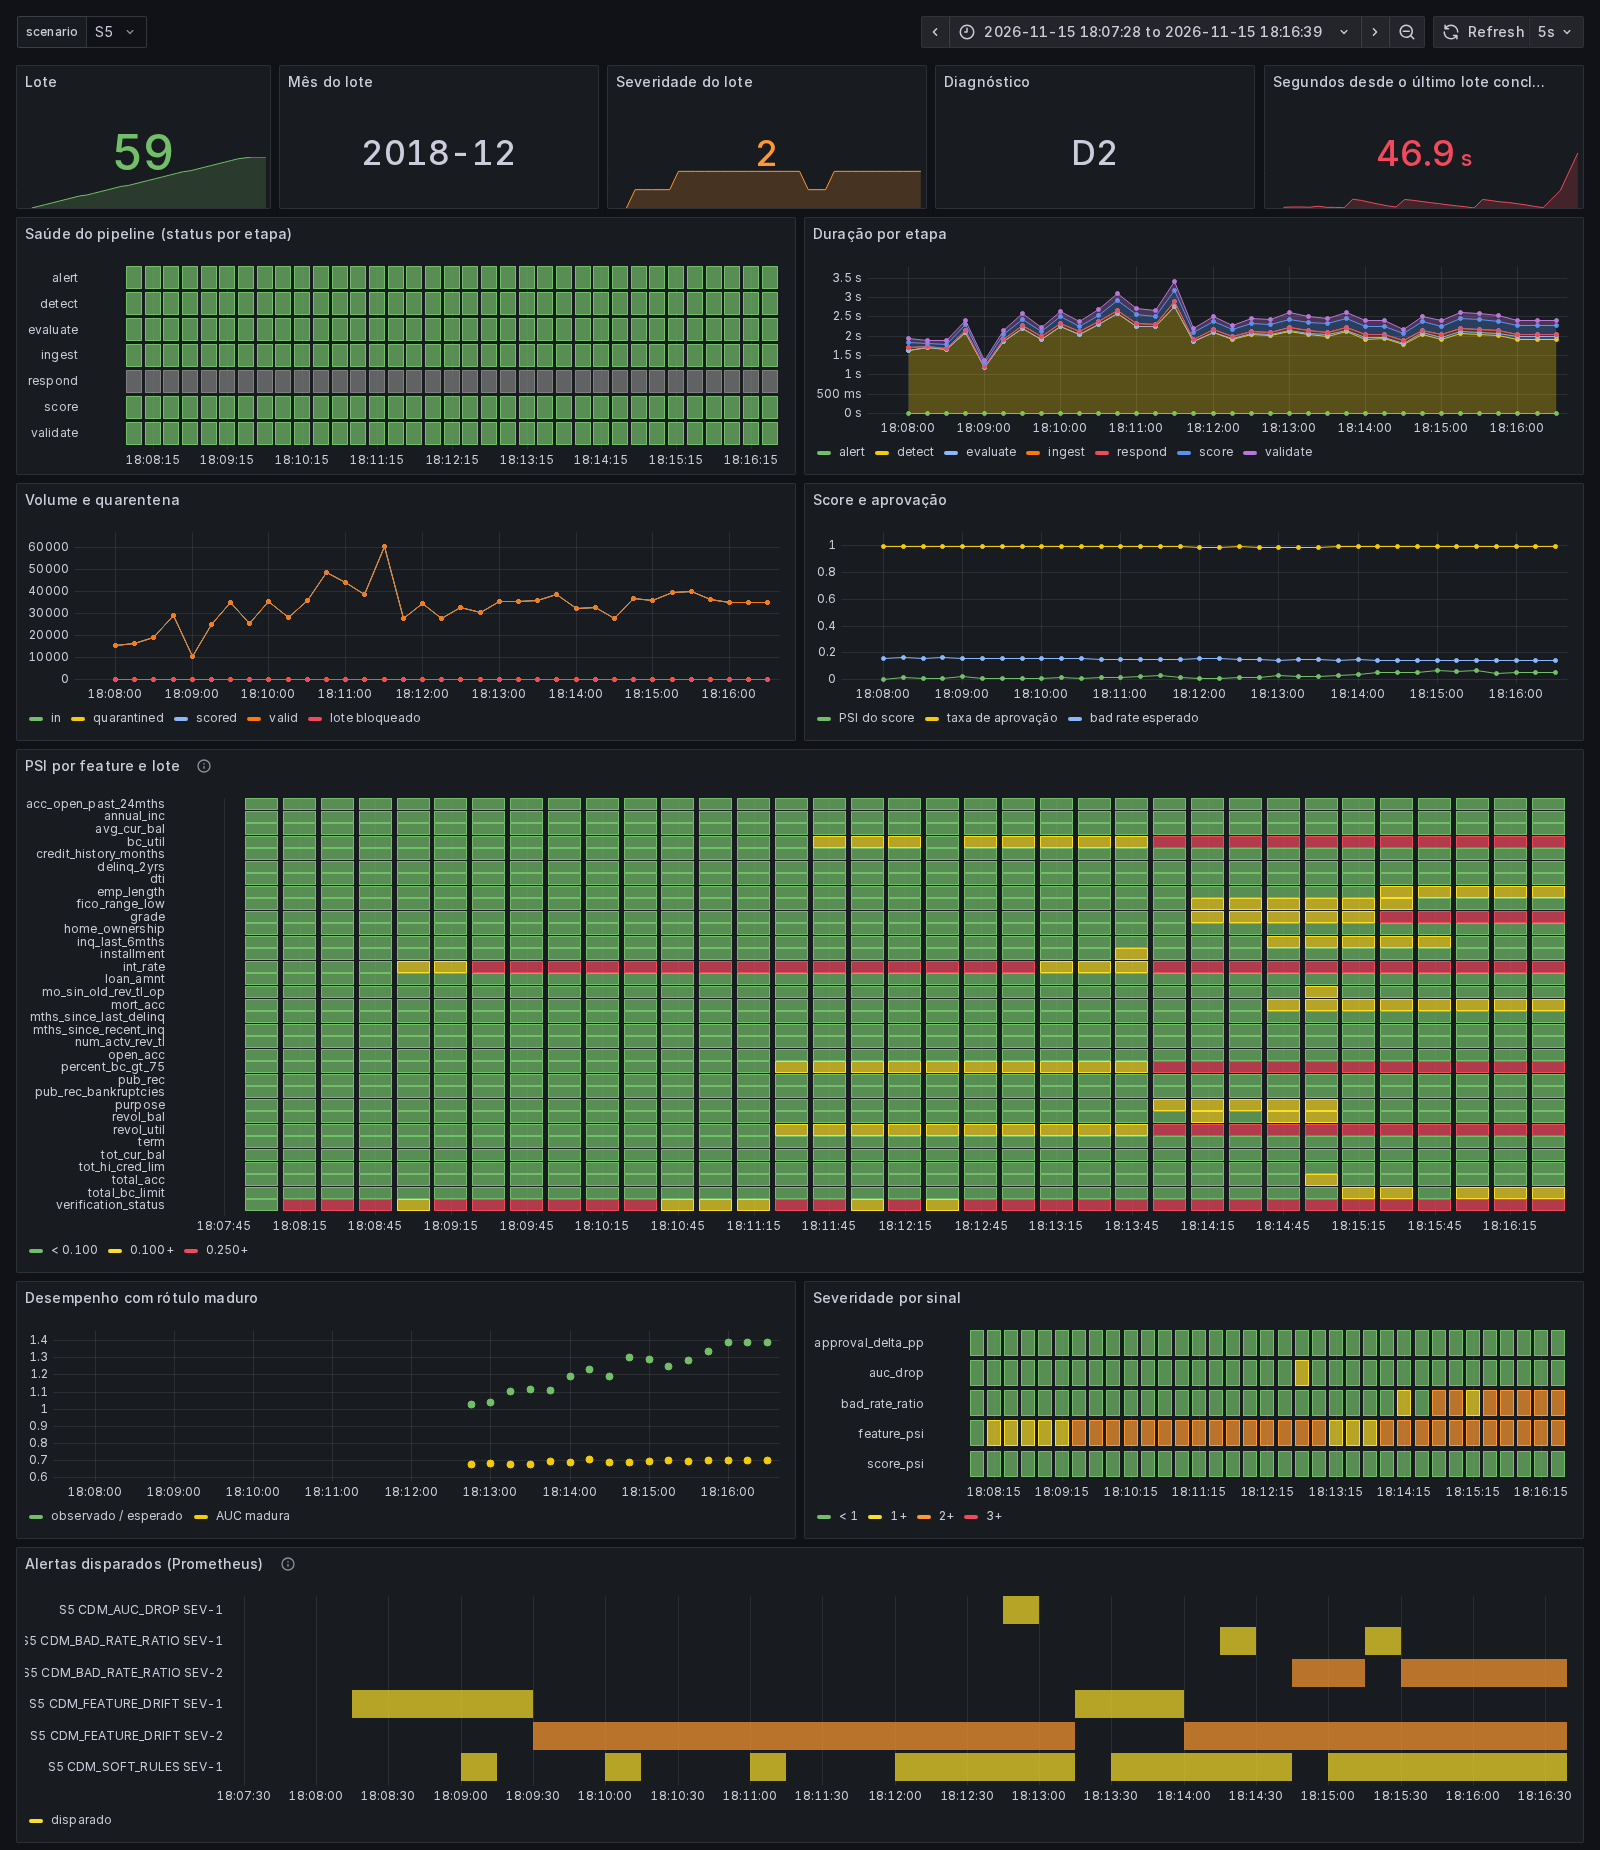
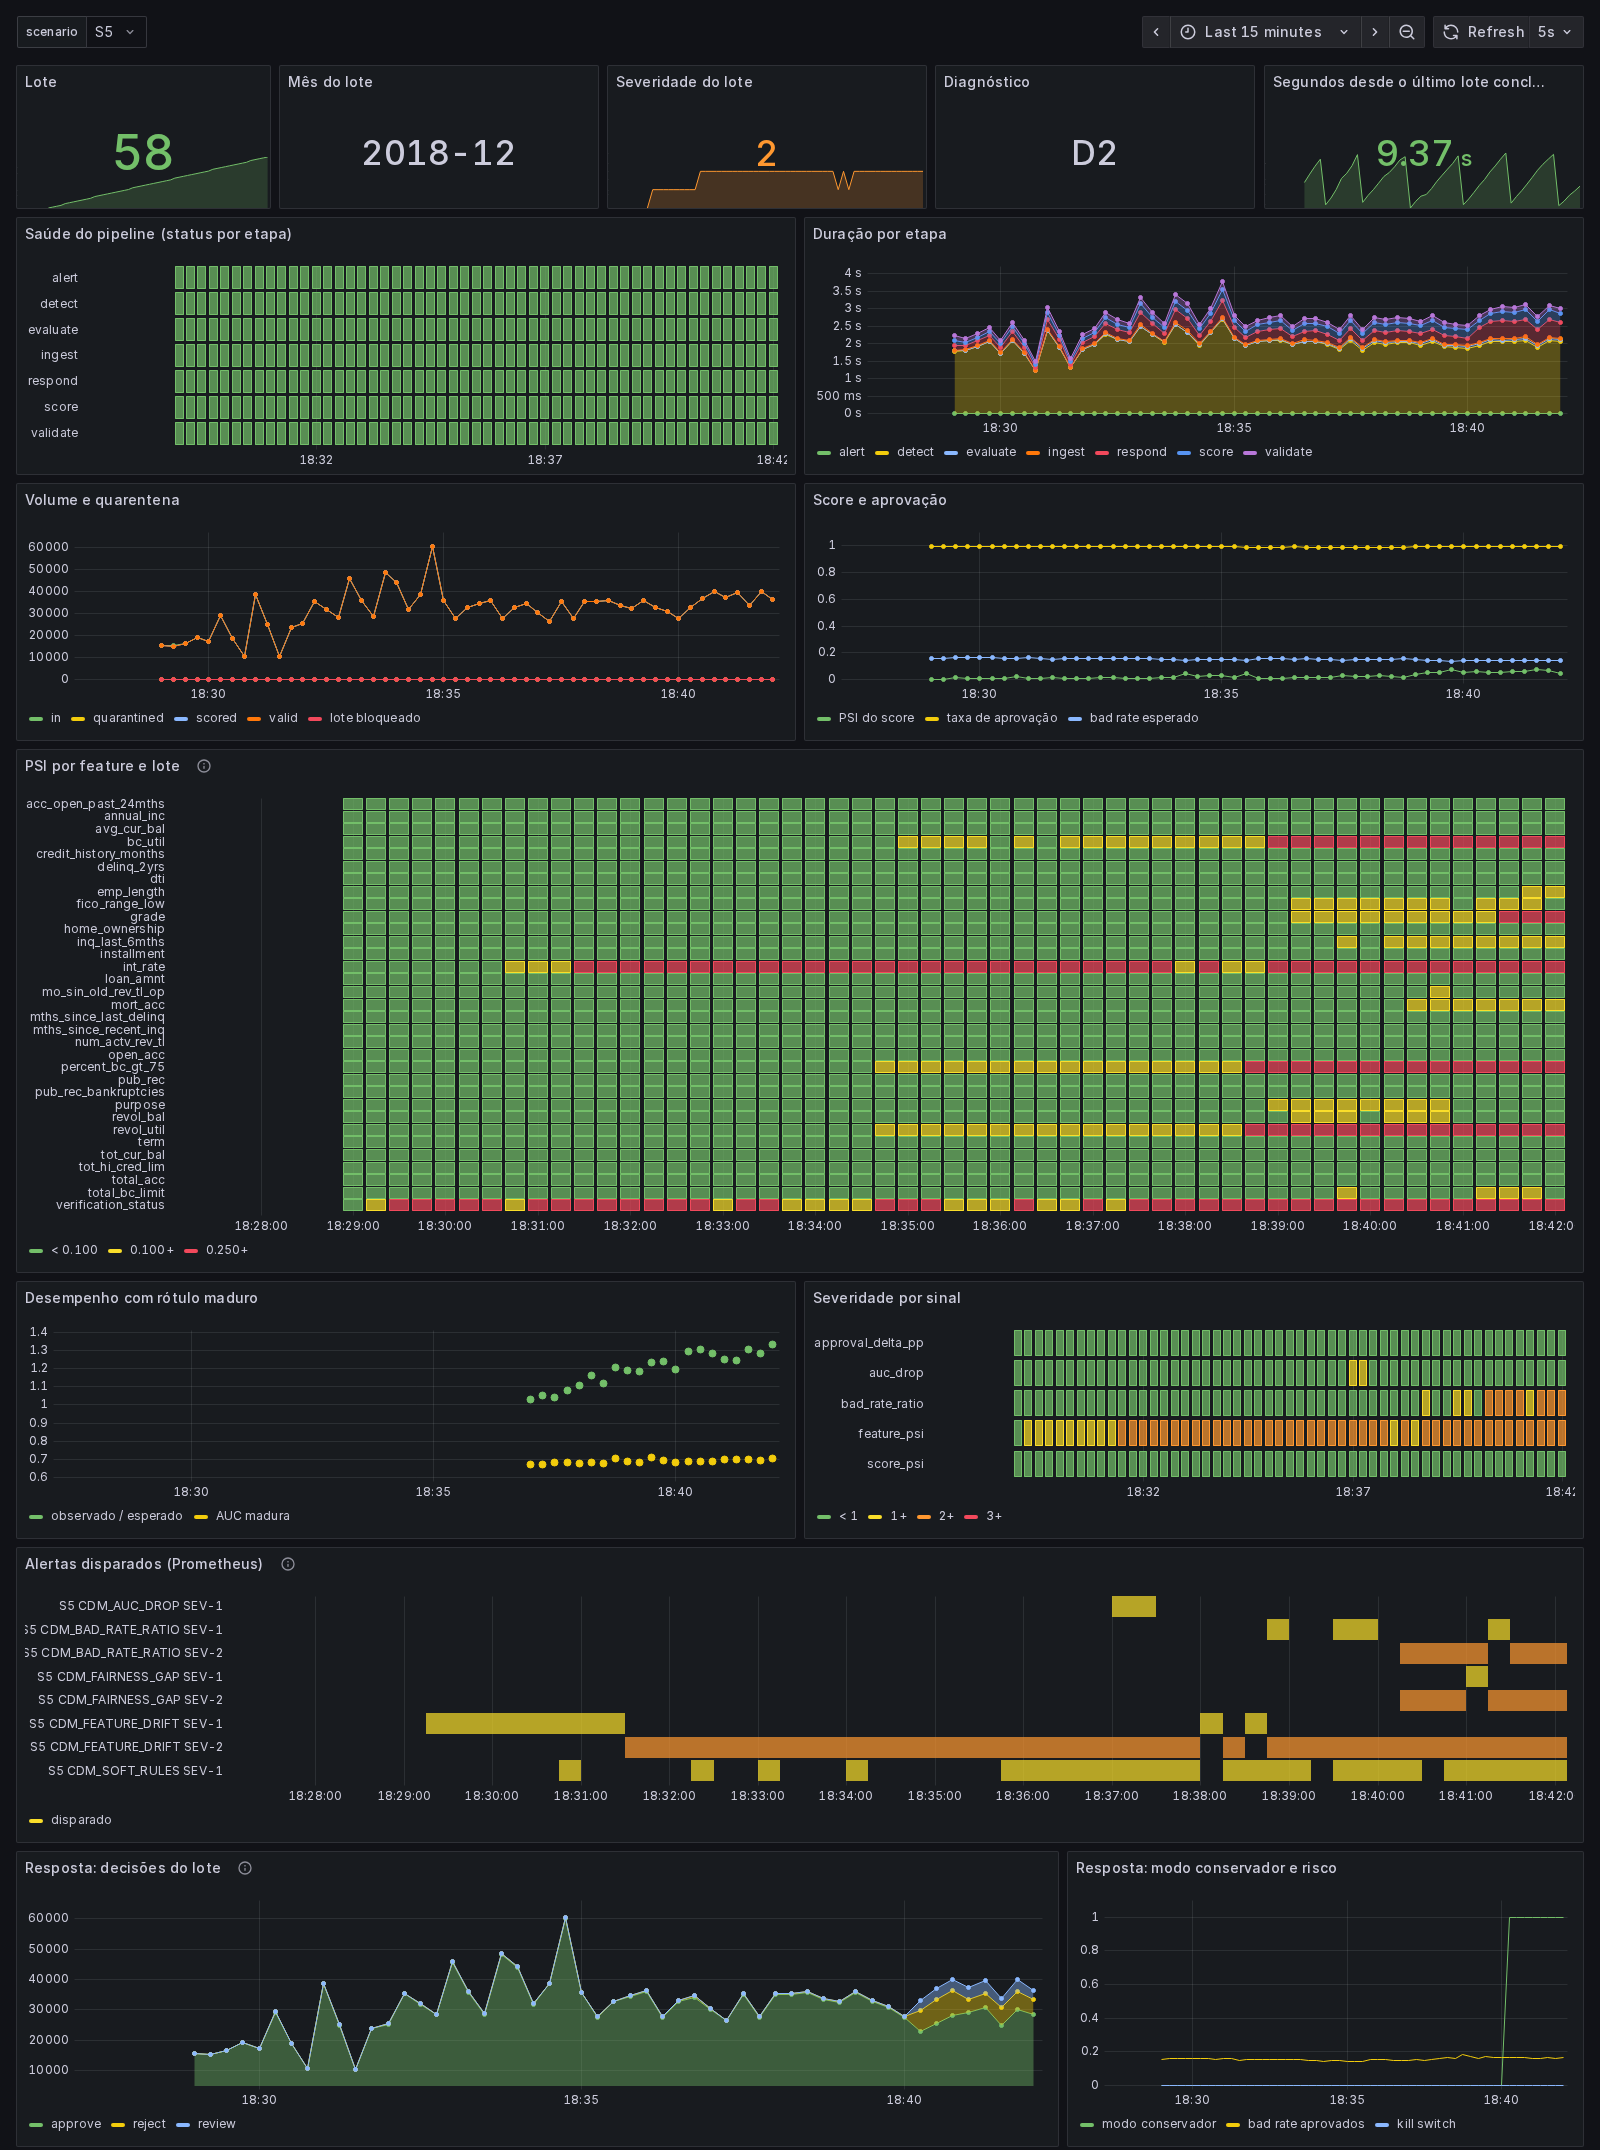
docs: registra replay do cenário S5 na stack recriada do zero com prints atualizados

diff --git a/docs/runs/INDEX.md b/docs/runs/INDEX.md
@@ -66,3 +66,4 @@ Observações humanas sobre os runs ficam na seção "Observações" de cada reg
 | [RUN-20261117-monitor-S2-01](RUN-20261117-monitor-S2-01.md) | 2026-11-17 | monitor | S2 | pipeline: 12 lotes · 0 bloqueados · 0 etapas com falha · alertas {'CDM_BAD_RATE_RATIO': 'SEV-2', 'CDM_FAIRNESS_GAP': 'SEV-1'} | sim |
 | [RUN-20261117-monitor-S3-01](RUN-20261117-monitor-S3-01.md) | 2026-11-17 | monitor | S3 | pipeline: 12 lotes · 0 bloqueados · 0 etapas com falha · alertas {'CDM_BAD_RATE_RATIO': 'SEV-2', 'CDM_FAIRNESS_GAP': 'SEV-2'} | sim |
 | [RUN-20261117-monitor-S4-01](RUN-20261117-monitor-S4-01.md) | 2026-11-17 | monitor | S4 | pipeline: 12 lotes · 0 bloqueados · 0 etapas com falha · alertas {'CDM_APPROVAL_SHIFT': 'SEV-1', 'CDM_AUC_DROP': 'SEV-2', 'CDM_BAD_RATE_RATIO': 'SEV-2', 'CDM_FEATURE_DRIFT': 'SEV-2', 'CDM_SCORE_DRIFT': 'SEV-1', 'CDM_UNIT_BUG_SUSPECTED': 'SEV-2'} | sim |
+| [RUN-20261117-monitor-S5-02](RUN-20261117-monitor-S5-02.md) | 2026-11-17 | monitor | S5 | pipeline: 60 lotes · 0 bloqueados · 0 etapas com falha · alertas {'CDM_AUC_DROP': 'SEV-1', 'CDM_BAD_RATE_RATIO': 'SEV-2', 'CDM_FAIRNESS_GAP': 'SEV-2', 'CDM_FEATURE_DRIFT': 'SEV-2', 'CDM_SOFT_RULES': 'SEV-1'} | sim |

diff --git a/docs/runs/RUN-20261117-monitor-S5-02.md b/docs/runs/RUN-20261117-monitor-S5-02.md
@@ -1,0 +1,40 @@
+# RUN-20261117-monitor-S5-02
+
+> Gerado por `src/reporting/run_record.py`. Não editar números à mão.
+
+| Campo | Valor |
+|---|---|
+| Data | 2026-11-17 18:42 |
+| Tipo | monitor |
+| Git SHA | `e778981d01f1dc146f39b35c53e3dd3e6f0ef0ad` |
+| Árvore limpa | sim |
+| Hash dos dados de entrada | `—` |
+| Cenário / seed | S5 / 0 |
+| Modelo | champion |
+| MLflow | experimento `monitoring` |
+| modo | replay |
+| push | True |
+
+## Métricas
+
+| Métrica | job |
+|---|---|
+| batches | 60 |
+| blocked | 0 |
+| duration_max_s | 4.5264 |
+| duration_p50_s | 3.4758 |
+| failed_steps | 0 |
+| first_alert_batch | 1 |
+| soft_S02 | 31 |
+
+## Artefatos
+
+- `logs/RUN-20261117-monitor-S5-02.jsonl`
+- `logs/RUN-20261117-monitor-S5-02.summary.json`
+
+## Veredito
+
+pipeline: 60 lotes · 0 bloqueados · 0 etapas com falha · alertas {'CDM_AUC_DROP': 'SEV-1', 'CDM_BAD_RATE_RATIO': 'SEV-2', 'CDM_FAIRNESS_GAP': 'SEV-2', 'CDM_FEATURE_DRIFT': 'SEV-2', 'CDM_SOFT_RULES': 'SEV-1'}
+
+## Observações
+
